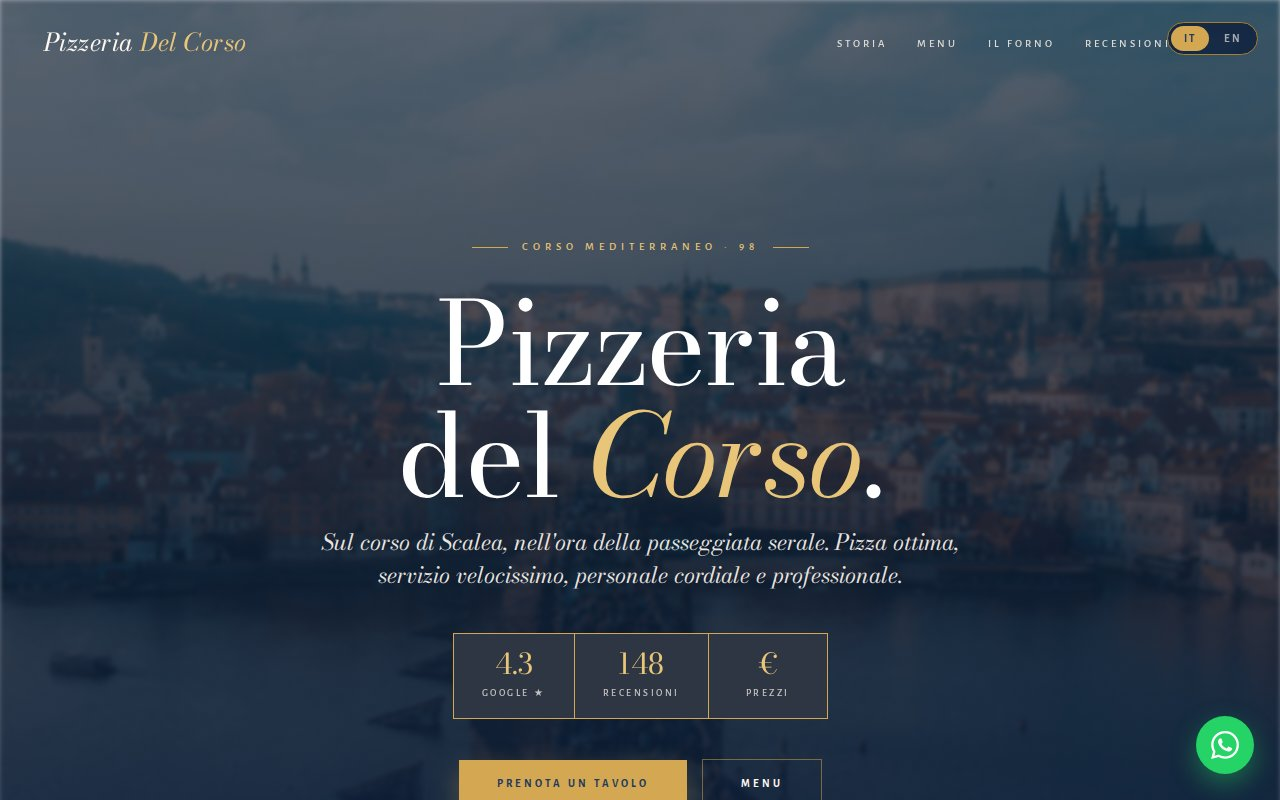
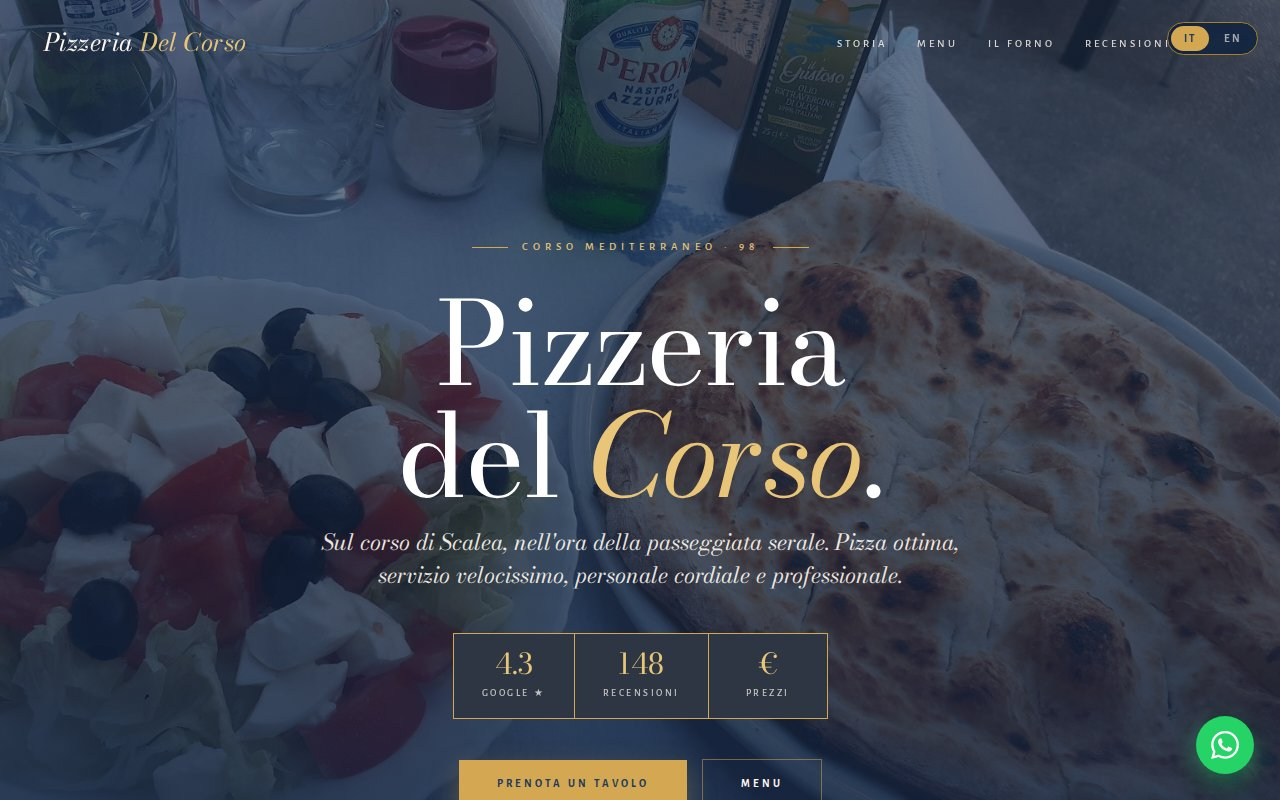
del-corso: real Google Places hero photo (replace Prague Unsplash)

diff --git a/del-corso/index.html b/del-corso/index.html
@@ -30,7 +30,7 @@ nav.scrolled{background:rgba(15,34,64,.94);padding:14px 44px;backdrop-filter:blu
 /* HERO corso sfocato */
 .hero{position:relative;min-height:100vh;color:var(--panna);overflow:hidden;display:flex;align-items:center}
 .hero-bg{position:absolute;inset:0;z-index:0}
-.hero-bg img{width:100%;height:100%;object-fit:cover;filter:blur(2px) brightness(.58) saturate(.85)}
+.hero-bg img{width:100%;height:100%;object-fit:cover;filter:brightness(.7)}
 .hero-bg::after{content:'';position:absolute;inset:0;background:linear-gradient(180deg,rgba(30,58,95,.4) 0%,rgba(15,34,64,.6) 55%,rgba(15,34,64,.88) 100%)}
 .hero-inner{position:relative;z-index:2;max-width:1280px;margin:0 auto;padding:130px 44px 90px;width:100%;text-align:center}
 .hero-kicker{display:inline-flex;align-items:center;gap:14px;font-family:'Alegreya Sans',sans-serif;font-size:11px;letter-spacing:5px;text-transform:uppercase;color:var(--gold-l);font-weight:500;margin-bottom:30px}
@@ -147,7 +147,7 @@ footer{background:var(--midnight-d);color:rgba(255,248,240,.72);padding:54px 44p
 </nav>
 
 <section class="hero">
-    <div class="hero-bg"><img src="https://images.unsplash.com/photo-1519677100203-a0e668c92439?w=1600&q=80" alt="Corso Mediterraneo Scalea"></div>
+    <div class="hero-bg"><img src="del-corso-photos/hero.jpg" alt="Pizzeria Del Corso Scalea"></div>
     <div class="hero-inner">
         <div class="hero-kicker"><span class="t-it">Corso Mediterraneo · 98</span><span class="t-en">Corso Mediterraneo · 98</span></div>
         <h1 class="t-it">Pizzeria<br>del <em>Corso</em>.</h1>
